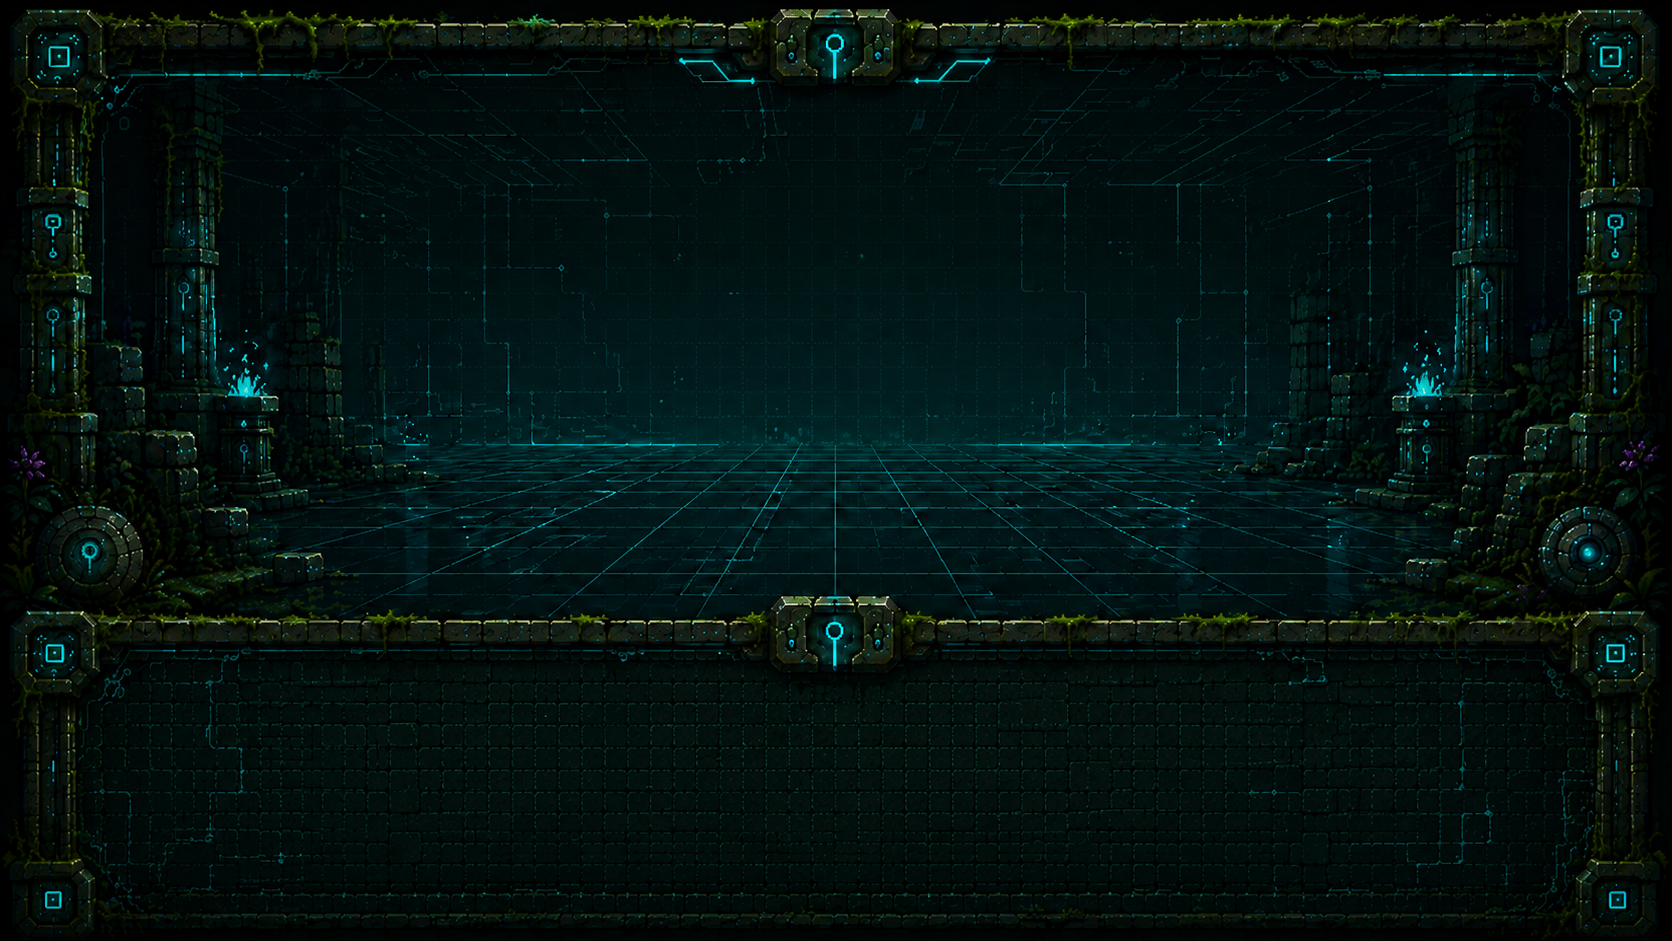
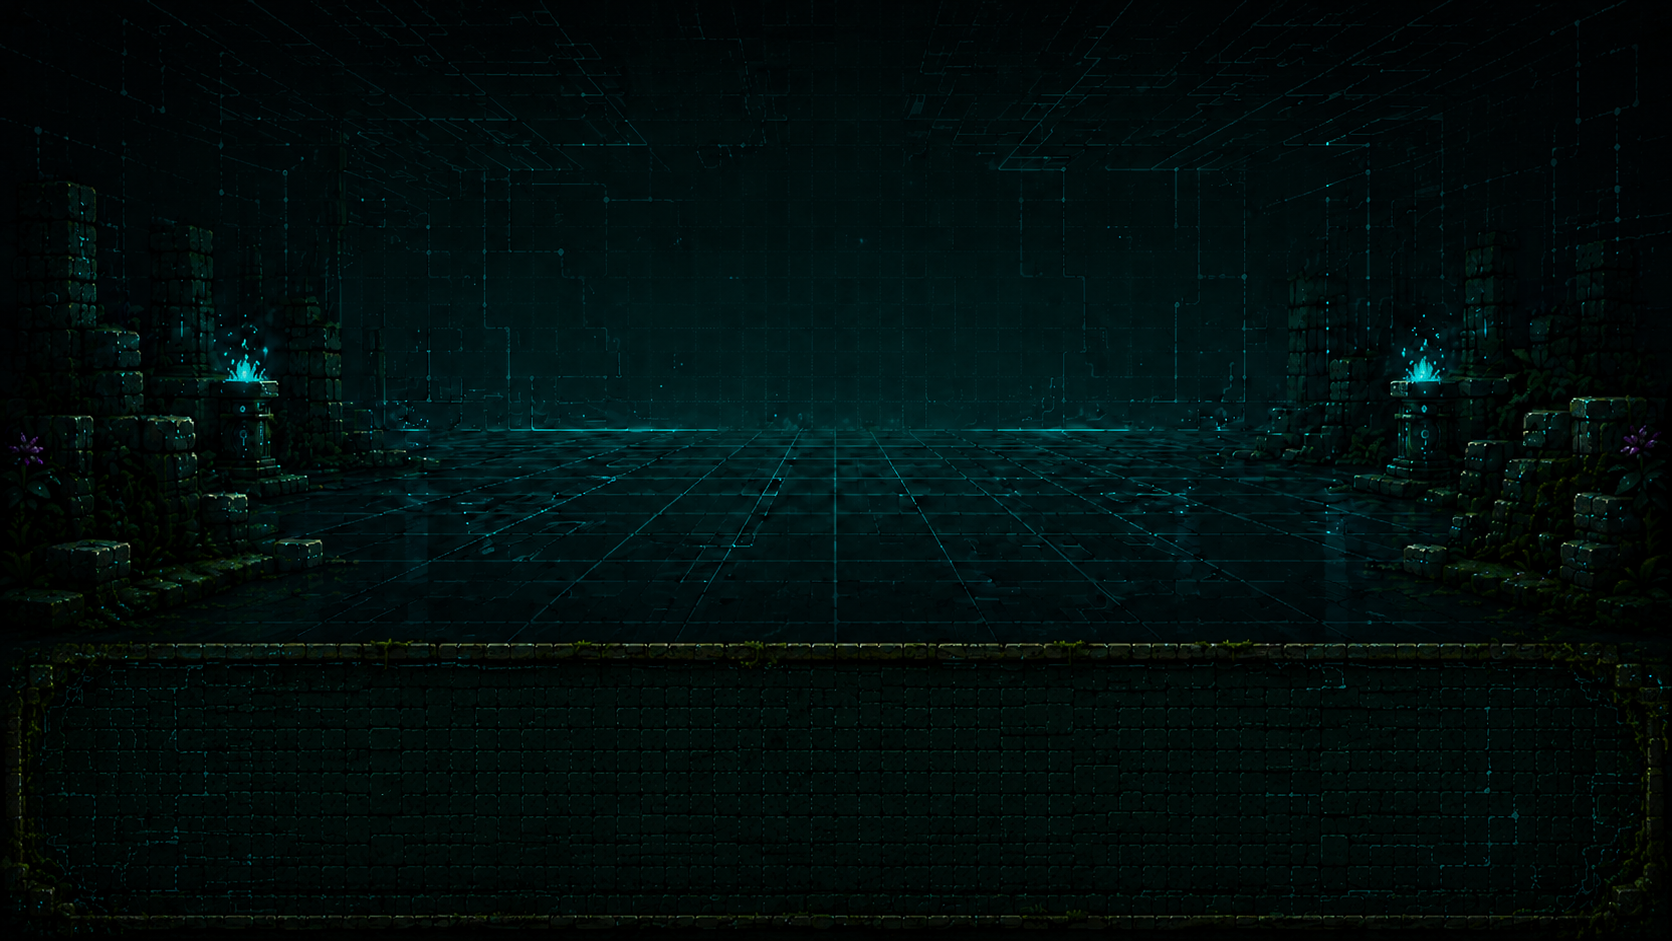
feat: add new assets

diff --git a/game_render.py b/game_render.py
@@ -129,6 +129,22 @@ def draw_book_hud_button() -> None:
     game_assets.screen.blit(icon_scaled, icon_rect)
 
 
+def draw_battle_flee_hud_button() -> None:
+    hovered = BATTLE_FLEE_RECT.collidepoint(game_assets.get_virtual_mouse_pos())
+    fill_color = (237, 233, 214) if hovered else BUTTON_COLOR
+    pygame.draw.rect(game_assets.screen, fill_color, BATTLE_FLEE_RECT, border_radius=8)
+    pygame.draw.rect(game_assets.screen, BUTTON_BORDER, BATTLE_FLEE_RECT, 2, border_radius=8)
+    draw_text(
+        "Fugir",
+        game_assets.help_font,
+        TEXT_DARK,
+        game_assets.screen,
+        BATTLE_FLEE_RECT.centerx,
+        BATTLE_FLEE_RECT.centery - 1,
+        center=True,
+    )
+
+
 def draw_map_notice() -> None:
     if not game_state.map_notice_message:
         return
@@ -636,9 +652,9 @@ def draw_battle_screen() -> None:
 
     game_assets.screen.blit(game_assets.combate_bg, (0, 0))
 
-    # Characters positioned inside the arena area (top portion of the new bg)
-    enemy_pos = (SCREEN_WIDTH // 2, int(SCREEN_HEIGHT * 0.20))
-    player_pos = (SCREEN_WIDTH // 2, int(SCREEN_HEIGHT * 0.50))
+    # Keep the duel centered in the arena, with room reserved for the lower command panel.
+    enemy_pos = (SCREEN_WIDTH // 2, int(SCREEN_HEIGHT * 0.25))
+    player_pos = (SCREEN_WIDTH // 2, int(SCREEN_HEIGHT * 0.54))
 
     enemy_image = game_assets.combat_enemy_images[villain.id]
     enemy_rect = enemy_image.get_rect(center=enemy_pos)
@@ -648,11 +664,19 @@ def draw_battle_screen() -> None:
     game_assets.screen.blit(game_assets.player_image_combat, player_rect)
 
     # Enemy name at top center
-    draw_text(villain.crime["enemy_name"], game_assets.title_font, BATTLE_TEXT, game_assets.screen, SCREEN_WIDTH // 2, 20, center=True)
+    draw_text(
+        villain.crime["enemy_name"],
+        game_assets.title_font,
+        BATTLE_TEXT,
+        game_assets.screen,
+        SCREEN_WIDTH // 2,
+        46,
+        center=True,
+    )
 
     # Health bars near the top
-    draw_health_bar(game_assets.screen, 110, 50)
-    draw_enemy_health_bar(game_assets.screen, villain, SCREEN_WIDTH - 440, 30)
+    draw_health_bar(game_assets.screen, 110, 52)
+    draw_enemy_health_bar(game_assets.screen, villain, SCREEN_WIDTH - 440, 34)
 
     # Flee button (bottom-left area)
     def draw_battle_button(rect: pygame.Rect, text: str) -> None:
@@ -674,8 +698,6 @@ def draw_battle_screen() -> None:
             hover_overlay.fill((0, 200, 220, 30))
             game_assets.screen.blit(hover_overlay, rect.topleft)
 
-    draw_battle_button(BATTLE_FLEE_RECT, "Fugir")
-
     if game_state.selected_attack_category is None:
         categories = game_state.get_unlocked_categories()
         for index, category in enumerate(categories):
@@ -693,7 +715,7 @@ def draw_battle_screen() -> None:
             BATTLE_TEXT,
             game_assets.screen,
             SCREEN_WIDTH // 2,
-            442,
+            480,
             center=True,
         )
         for index, attack in enumerate(attacks):
@@ -702,6 +724,7 @@ def draw_battle_screen() -> None:
             option_rect = SUBATTACK_OPTION_RECTS[index]
             draw_battle_button(option_rect, f"{index + 1}. {attack['name']}")
 
+    draw_battle_flee_hud_button()
     draw_book_hud_button()
 
     if game_state.feedback_active:

diff --git a/game_config.py b/game_config.py
@@ -457,23 +457,41 @@ MAP_HEIGHT = MAP_ROWS * TILE_SIZE
 MAP_OFFSET_X = (SCREEN_WIDTH - MAP_WIDTH) // 2
 MAP_OFFSET_Y = (SCREEN_HEIGHT - MAP_HEIGHT) // 2
 
+BATTLE_BUTTON_WIDTH = 330
+BATTLE_BUTTON_HEIGHT = 54
+BATTLE_BUTTON_LEFT_X = 110
+BATTLE_BUTTON_MIDDLE_X = 475
+BATTLE_BUTTON_RIGHT_X = 840
+BATTLE_BUTTON_TOP_ROW_Y = 536
+BATTLE_BUTTON_BOTTOM_ROW_Y = 620
+BATTLE_FLEE_WIDTH = 76
+BATTLE_FLEE_HEIGHT = 36
+BATTLE_FLEE_GAP = 8
+BATTLE_FLEE_X = SCREEN_WIDTH - 50 - BATTLE_FLEE_GAP - BATTLE_FLEE_WIDTH
+BATTLE_FLEE_Y = 6
+
 BATTLE_OPTION_RECTS = [
-    pygame.Rect(120, 500, 450, 65),
-    pygame.Rect(710, 500, 450, 65),
-    pygame.Rect(120, 612, 450, 65),
-    pygame.Rect(710, 612, 450, 65),
+    pygame.Rect(BATTLE_BUTTON_LEFT_X, BATTLE_BUTTON_TOP_ROW_Y, BATTLE_BUTTON_WIDTH, BATTLE_BUTTON_HEIGHT),
+    pygame.Rect(BATTLE_BUTTON_MIDDLE_X, BATTLE_BUTTON_TOP_ROW_Y, BATTLE_BUTTON_WIDTH, BATTLE_BUTTON_HEIGHT),
+    pygame.Rect(BATTLE_BUTTON_RIGHT_X, BATTLE_BUTTON_TOP_ROW_Y, BATTLE_BUTTON_WIDTH, BATTLE_BUTTON_HEIGHT),
+    pygame.Rect(BATTLE_BUTTON_LEFT_X, BATTLE_BUTTON_BOTTOM_ROW_Y, BATTLE_BUTTON_WIDTH, BATTLE_BUTTON_HEIGHT),
 ]
 
-BATTLE_FLEE_RECT = pygame.Rect(710, 612, 450, 65)
+BATTLE_FLEE_RECT = pygame.Rect(
+    BATTLE_FLEE_X,
+    BATTLE_FLEE_Y,
+    BATTLE_FLEE_WIDTH,
+    BATTLE_FLEE_HEIGHT,
+)
 WARNING_PROCEED_RECT = pygame.Rect(420, 442, 200, 46)
 WARNING_BACK_RECT = pygame.Rect(660, 442, 200, 46)
 
 SUBATTACK_OPTION_RECTS = [
-    pygame.Rect(120, 500, 450, 50),
-    pygame.Rect(710, 500, 450, 50),
-    pygame.Rect(120, 562, 450, 50),
-    pygame.Rect(710, 562, 450, 50),
-    pygame.Rect(120, 624, 450, 50),
+    pygame.Rect(BATTLE_BUTTON_LEFT_X, BATTLE_BUTTON_TOP_ROW_Y, BATTLE_BUTTON_WIDTH, BATTLE_BUTTON_HEIGHT),
+    pygame.Rect(BATTLE_BUTTON_MIDDLE_X, BATTLE_BUTTON_TOP_ROW_Y, BATTLE_BUTTON_WIDTH, BATTLE_BUTTON_HEIGHT),
+    pygame.Rect(BATTLE_BUTTON_RIGHT_X, BATTLE_BUTTON_TOP_ROW_Y, BATTLE_BUTTON_WIDTH, BATTLE_BUTTON_HEIGHT),
+    pygame.Rect(BATTLE_BUTTON_LEFT_X, BATTLE_BUTTON_BOTTOM_ROW_Y, BATTLE_BUTTON_WIDTH, BATTLE_BUTTON_HEIGHT),
+    pygame.Rect(BATTLE_BUTTON_MIDDLE_X, BATTLE_BUTTON_BOTTOM_ROW_Y, BATTLE_BUTTON_WIDTH, BATTLE_BUTTON_HEIGHT),
 ]
 
 BOOK_HUD_RECT = pygame.Rect(SCREEN_WIDTH - 50, 6, 36, 36)
